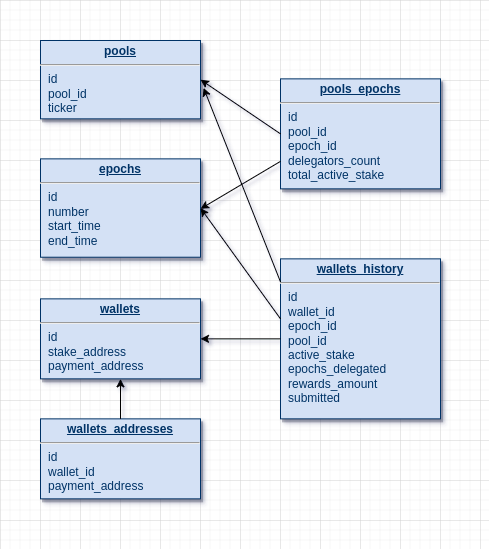
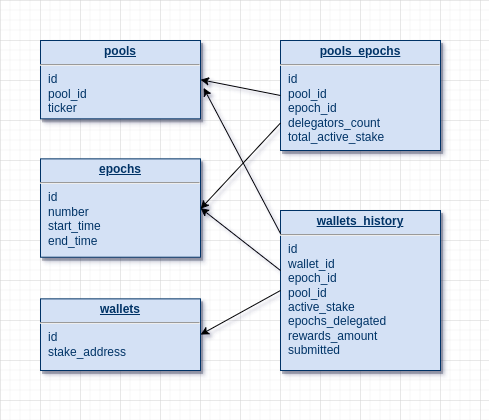
Rewards calculation adjusted with the boost. Removed payment addresses.

Changed region(s): [[0.0613, 0.0619, 0.9202, 0.9286], [0.4908, 0.7119, 0.5521, 0.7429], [0.4601, 0.7429, 0.4908, 0.7738]]

diff --git a/snapshot.py b/snapshot.py
@@ -3,7 +3,6 @@
 
 from library import *
 from koios_api.pool import get_pool_history, get_pool_delegators_history
-from koios_api.account import get_account_addresses
 import sqlite3
 import json
 
@@ -107,7 +106,6 @@ if __name__ == '__main__':
     """
     wallets = {}
     total_delegators_per_epoch = {}
-    account_address = {}
     sorted_epochs = list(delegators_per_epoch)
     sorted_epochs.sort()
     for epoch in sorted_epochs:
@@ -145,42 +143,43 @@ if __name__ == '__main__':
                 print(e)
                 exit(1)
             for delegator in delegators_per_epoch[epoch][pool_id]:
-                if delegator not in account_address:
-                    # get the payment address from the database
-                    cur.execute("SELECT id, payment_address FROM wallets WHERE stake_address = ?", (delegator,))
+                cur.execute("SELECT id FROM wallets WHERE stake_address = ?", (delegator,))
+                row = cur.fetchone()
+                if not row:
+                    cur.execute("INSERT INTO wallets(stake_address) VALUES (?)", (delegator,))
+                    wallet_id = cur.lastrowid
+                    conn.commit()
+                else:
+                    wallet_id = row[0]
+                wallets[delegator] = {'id': wallet_id}
+                active_stake = delegators_per_epoch[epoch][pool_id][delegator]['active_stake']
+                # Calculate the number of delegated epochs for the current wallet
+                try:
+                    prev_epoch_id = epochs[epoch - 1]['id']
+                except KeyError as e:
+                    epochs_delegated = 1
+                else:
+                    cur.execute("SELECT epochs_delegated FROM wallets_history WHERE wallet_id = ? and epoch_id = ?",
+                                (wallet_id, prev_epoch_id))
                     row = cur.fetchone()
                     if not row:
-                        # get the payment address from the api
-                        logging.debug(f"Calling the API to find out the wallet payment address for {delegator}")
-                        account_addresses = get_account_addresses(delegator)
-                        try:
-                            account_address[delegator] = account_addresses[0]['addresses'][0]
-                        except IndexError as e:
-                            logging.exception(f"Payment address not found for {delegator}!")
-                            account_address[delegator] = ''
-                        cur.execute("INSERT INTO wallets(stake_address, payment_address) VALUES (?, ?)",
-                                    (delegator, account_address[delegator]))
-                        wallet_id = cur.lastrowid
-                        if account_addresses:
-                            for payment_address in account_addresses[0]['addresses']:
-                                cur.execute("SELECT wallet_id FROM wallets_addresses WHERE payment_address = ?",
-                                            (payment_address,))
-                                row = cur.fetchone()
-                                if not row:
-                                    cur.execute("INSERT INTO wallets_addresses(wallet_id, payment_address) "
-                                                "VALUES(?, ?)", (wallet_id, payment_address))
-                        conn.commit()
+                        epochs_delegated = 1
                     else:
-                        wallet_id = row[0]
-                        account_address[delegator] = row[1]
-                    wallets[delegator] = {'id': wallet_id}
+                        epochs_delegated = row[0] + 1
+                # calculate the rewards based on the active stake and bonuses for multiple epochs delegated
+                if epochs_delegated >= 50:
+                    BONUS = 1.5
+                elif epochs_delegated >= 25:
+                    BONUS = 1.3
+                elif epochs_delegated >= 10:
+                    BONUS = 1.2
+                elif epochs_delegated >= 5:
+                    BONUS = 1.1
                 else:
-                    wallet_id = wallets[delegator]['id']
-                active_stake = delegators_per_epoch[epoch][pool_id][delegator]['active_stake']
-                rewards = int(active_stake * REWARDS_RATE)
+                    BONUS = 1
+                rewards = int(active_stake * REWARDS_RATE * BONUS)
                 record = {
                     'Stake Addr': delegator,
-                    'Wallet Addr': account_address[delegator],
                     'Active Stake': active_stake,
                     'Rewards': rewards
                 }
@@ -190,35 +189,30 @@ if __name__ == '__main__':
                               f"{total_delegators_in_epoch} {delegator}")
                 """
                 Insert record into wallets_history if not already there
+                or update it in case it is already present
                 """
                 epoch_id = epochs[epoch]['id']
                 cur.execute("SELECT id FROM wallets_history WHERE wallet_id = ? and epoch_id = ?",
                             (wallet_id, epoch_id))
                 row = cur.fetchone()
                 if not row:
-                    # Calculate the number of delegated epochs for the current wallet
-                    try:
-                        prev_epoch_id = epochs[epoch - 1]['id']
-                    except KeyError as e:
-                        epochs_delegated = 1
-                    else:
-                        cur.execute("SELECT epochs_delegated FROM wallets_history WHERE wallet_id = ? and epoch_id = ?",
-                                    (wallet_id, prev_epoch_id))
-                        row = cur.fetchone()
-                        if not row:
-                            epochs_delegated = 1
-                        else:
-                            epochs_delegated = row[0] + 1
                     cur.execute("INSERT INTO wallets_history(wallet_id, epoch_id, pool_id, "
                                 "epochs_delegated, active_stake, rewards_amount) "
                                 "VALUES (?, ?, ?, ?, ?, ?)",
                                 (wallet_id, epoch_id, pools[pool_id]['id'],
                                  epochs_delegated, active_stake, rewards))
-                    conn.commit()
+                else:
+                    cur.execute("UPDATE wallets_history SET pool_id = ?, "
+                                "epochs_delegated = ?, active_stake = ?, rewards_amount = ? "
+                                "WHERE wallet_id = ? AND epoch_id = ?",
+                                (pools[pool_id]['id'], epochs_delegated,
+                                 active_stake, rewards, wallet_id, epoch_id))
+                conn.commit()
+
     """
     Generate the excel file from the database
     """
-    sql = "SELECT w.stake_address, w.payment_address, e.number, wh.epochs_delegated, " \
+    sql = "SELECT w.stake_address, e.number, wh.epochs_delegated, " \
           "wh.active_stake, wh.rewards_amount, p.ticker, w.id, e.id, p.id " \
           "FROM wallets_history wh " \
           "JOIN epochs e ON e.id = wh.epoch_id " \
@@ -230,18 +224,16 @@ if __name__ == '__main__':
     delegators_per_epoch = {}
     for row in rows:
         stake_address = row[0]
-        payment_address = row[1]
-        epoch = row[2]
-        epochs_delegated = row[3]
-        active_stake = row[4]
-        rewards_amount = row[5]
-        pool = row[6]
-        wallet_id = row[7]
+        epoch = row[1]
+        epochs_delegated = row[2]
+        active_stake = row[3]
+        rewards_amount = row[4]
+        pool = row[5]
+        wallet_id = row[6]
         if str(epoch) not in delegators_per_epoch:
             delegators_per_epoch[str(epoch)] = []
         record = {
             'Stake Addr': stake_address,
-            'Wallet Addr': payment_address,
             'Pool': pool,
             'Epochs delegated': epochs_delegated,
             'Active Stake': active_stake,

diff --git a/library.py b/library.py
@@ -164,8 +164,7 @@ def create_database(db_conn, db_cur):
     """
     db_cur.execute('''CREATE TABLE IF NOT EXISTS wallets (
                 id INTEGER PRIMARY KEY AUTOINCREMENT NOT NULL,
-                stake_address CHAR(59) NOT NULL,
-                payment_address CHAR(103) NOT NULL
+                stake_address CHAR(59) NOT NULL
                 )''')
     db_cur.execute('''CREATE UNIQUE INDEX IF NOT EXISTS wallets_stake_address ON wallets(stake_address)''')
 
@@ -186,11 +185,14 @@ def create_database(db_conn, db_cur):
     db_cur.execute('''CREATE INDEX IF NOT EXISTS wallets_history_wallet_id ON wallets_history(wallet_id)''')
     db_cur.execute('''CREATE INDEX IF NOT EXISTS wallets_history_epoch_id ON wallets_history(epoch_id)''')
 
+    """
+    # We don't need wallets addresses for now
     db_cur.execute('''CREATE TABLE IF NOT EXISTS wallets_addresses (
                 id INTEGER PRIMARY KEY AUTOINCREMENT NOT NULL,
                 wallet_id INTEGER NOT NULL,
                 payment_address CHAR(103) NOT NULL
                 )''')
     db_cur.execute('''CREATE UNIQUE INDEX IF NOT EXISTS wallets_addresses_p_a ON wallets_addresses(payment_address)''')
+    """
 
     return epochs, pools
